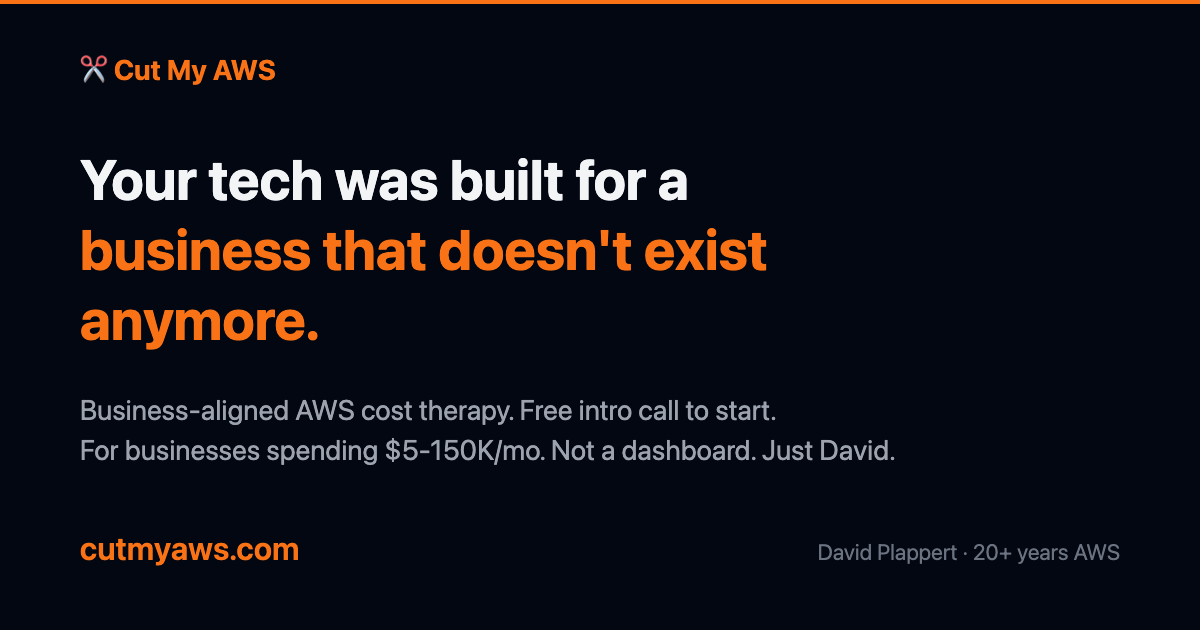
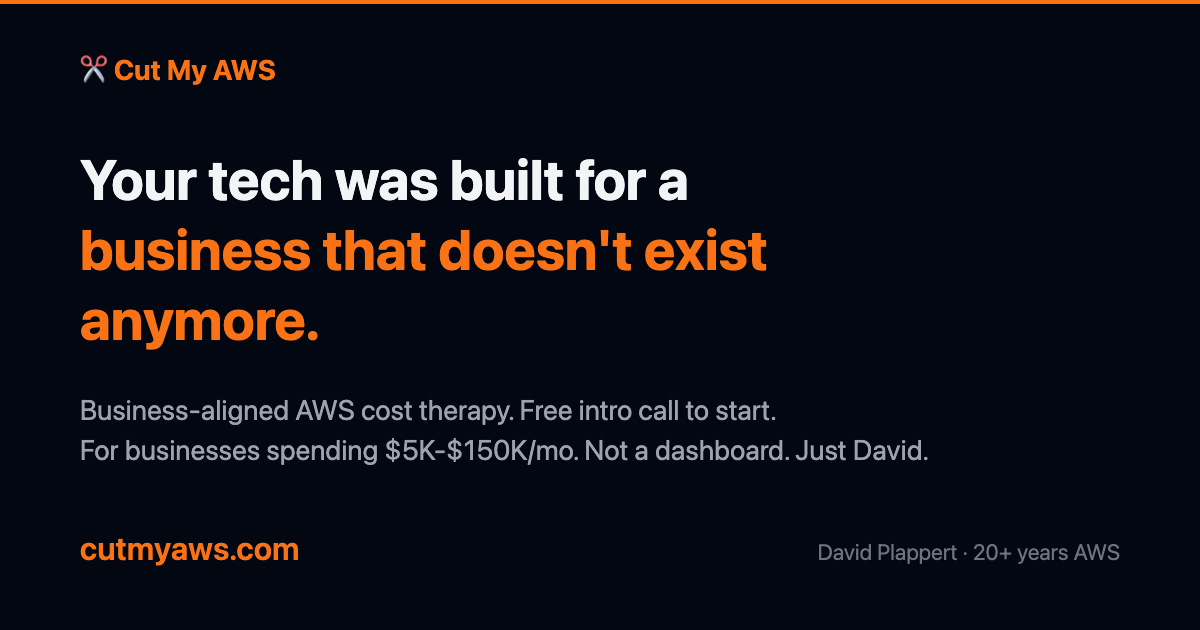
Standardize spend range to $5K-$150K everywhere

Changed region(s): [[0.3392, 0.6937, 0.7708, 0.754]]

diff --git a/app/pages/index.vue b/app/pages/index.vue
@@ -99,7 +99,7 @@ const pricing = {
   fixPct: 50,          // The Fix: 50% total (15% report + 35% implementation)
   implPct: 35,         // Implementation portion (fixPct - reportPct)
   securityPct: 10,     // Security Audit: 10% of AWS annual spend (free during promo)
-  minAws: 5000,        // We work best with $5-150K/mo AWS spend
+  minAws: 5000,        // We work best with $5K-$150K/mo AWS spend
 }
 
 // ── Example numbers ──

diff --git a/CLAUDE.md b/CLAUDE.md
@@ -21,7 +21,7 @@
 
 ## What CutMyAWS Does
 
-Business-aligned AWS technology audit and cost optimization for small and medium businesses spending **$5-150K/month** on AWS. Not just cost cutting — finding the mismatch between tech and business needs. The savings are a side effect of getting that alignment right.
+Business-aligned AWS technology audit and cost optimization for small and medium businesses spending **$5K-$150K/month** on AWS. Not just cost cutting — finding the mismatch between tech and business needs. The savings are a side effect of getting that alignment right.
 
 **Key differentiator:** David is a real person who reads your architecture, understands your business, and tells you exactly what to change and why. Not a dashboard. Not an AI. Not a junior analyst with a checklist.
 
